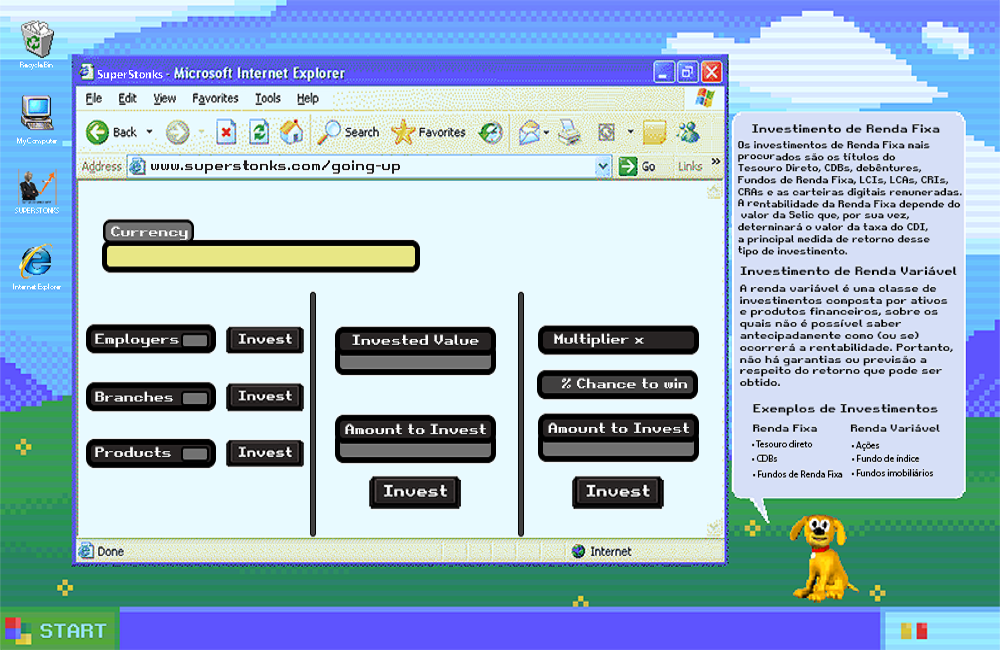
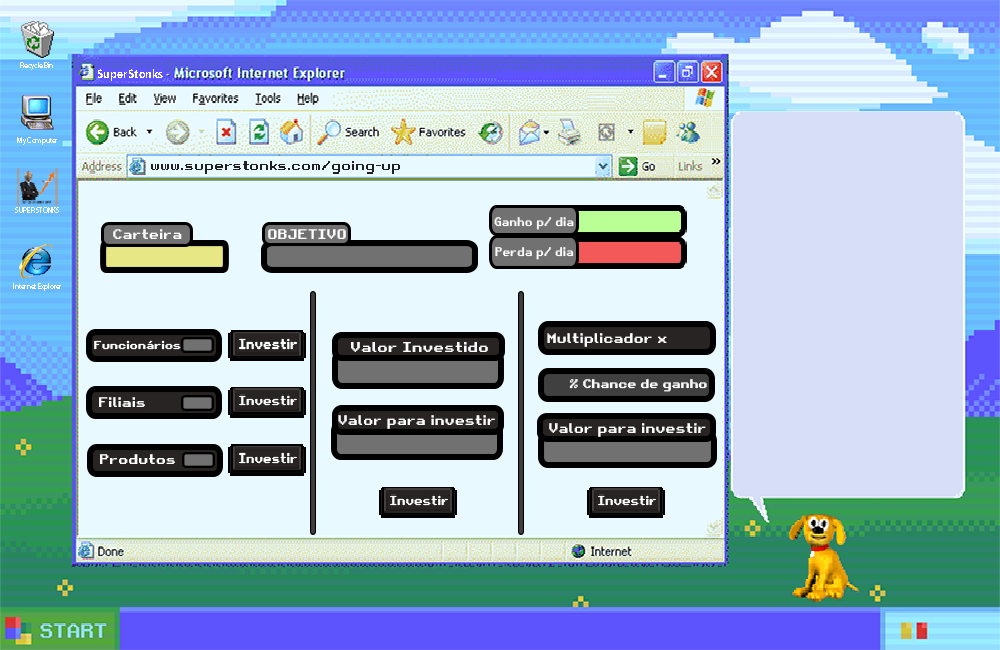
add novo cenario

diff --git a/theShareholder/Main.c b/theShareholder/Main.c
@@ -94,7 +94,7 @@ void LogFrames(int fps, ALLEGRO_FONT* font, ALLEGRO_COLOR* COR)
 };
 void LogWallet(ALLEGRO_FONT* font, Wallet* wallet)
 {
-	al_draw_textf(font, al_map_rgb(0, 0, 0), 250, 250, ALLEGRO_ALIGN_CENTER, "RS:%d -> RS:1.000.000 ", wallet->amount);
+	al_draw_textf(font, al_map_rgb(0, 0, 0), 152, 252, ALLEGRO_ALIGN_CENTER, "RS:%d", wallet->amount);
 	return;
 };
 void LogHours(float hours, float minutes, int x, int y, ALLEGRO_FONT* font, ALLEGRO_COLOR cor) {
@@ -114,9 +114,9 @@ void LogQtyInvestCompany(int x, int y, int value, ALLEGRO_FONT* font)
 
 
 void InitWallet(Wallet* wallet) {
-	wallet->amount = 100;
+	wallet->amount = 10000;
 	wallet->investedProfit = 0;
-	wallet->lossPerDay = 0;
+	wallet->lossPerDay = 5;
 	wallet->profitPerDay = 0;
 	wallet->products = 1;
 	wallet->branches = 1;
@@ -130,12 +130,16 @@ void AddAmount(Wallet* wallet) {
 }
 void InvestmentReturn(Wallet* wallet)
 {
-	wallet->amount += ((wallet->safeInvestedAmount) * 2 / 100) + wallet->valueCompany * 2;
+
 	wallet->safeInvestedAmount += (wallet->safeInvestedAmount) * 2 / 100;
+	wallet->amount += wallet->safeInvestedAmount + log10(wallet->valueCompany) * 0.8;
+
+	wallet->lossPerDay += wallet->valueCompany;
+	wallet->profitPerDay = 0.8 * (wallet->valueCompany) * log10(wallet->valueCompany);
 }
 void RemoveBalance(Wallet* wallet, Container* container)
 {
-	wallet->amount -= wallet->valueCompany * 5;
+	wallet->amount -= wallet->lossPerDay;
 
 	int reponse = 0;
 
@@ -178,6 +182,9 @@ void InitPlayer(Player* player) {
 
 	player->sourceX = 0;
 	player->sourceY = 0;
+	player->fpsPlayer = 0;
+
+
 	player->needRedraw = true;
 
 	player->spritePlayer = al_load_bitmap("src/imgs/player.png");
@@ -475,9 +482,9 @@ void fadeInNight(Background* background, float speed, Container* container, Time
 void statusProgress(Wallet* wallet, int x1, int y1, int x2, int y2)
 {
 	int percentageMoney = wallet->amount * 100 / 1000000;
-	int sizeRectangle = ((x2 - x1) * percentageMoney / 100) + x1 + 30;
+	int sizeRectangle   = ((x2 - x1) * percentageMoney / 100) + x1;
 
-	al_draw_filled_rectangle(x1, y1, sizeRectangle, y2, al_map_rgb(83, 255, 74));
+	al_draw_filled_rectangle(x1, y1, percentageMoney >= 100 ? x2 : sizeRectangle, y2, al_map_rgb(83, 255, 74));
 };
 
 
@@ -510,7 +517,7 @@ void ControlEvent(Container* container, Background* background, Player* player, 
 	ALLEGRO_FONT* fontTimer = al_load_font("src/font/MINECRAFT.TTF", 20, NULL);
 	ALLEGRO_TIMER* timer = al_create_timer(1.0 / FPS);
 
-	int dir = DOWN, frame = 0, investSafeForValue = 5, investDangerForValue = 0, playerrefresh = 0;
+	int dir = DOWN, frame = 0, investSafeForValue = 5, investDangerForValue = 0;
 
 	al_register_event_source(container->eventQueue, al_get_timer_event_source(timer));
 
@@ -520,7 +527,7 @@ void ControlEvent(Container* container, Background* background, Player* player, 
 	{
 		ALLEGRO_EVENT event;
 		ALLEGRO_KEYBOARD_STATE keyState;
-		playerrefresh++;
+		player->fpsPlayer++;
 
 		al_wait_for_event(container->eventQueue, &event);
 
@@ -569,7 +576,7 @@ void ControlEvent(Container* container, Background* background, Player* player, 
 
 			// 1 para 1
 			// seconds = 0,0005786
-			// minutes = 0,034716
+			// minutes = 0,0034716
 			// hours   = 0,2083
 
 			timerGame->seconds += 0.0005786;
@@ -679,24 +686,24 @@ void ControlEvent(Container* container, Background* background, Player* player, 
 				// Add investimento na empresa: Product
 				if (mouse->x >= 224 && mouse->x <= 296 && mouse->y >= 440 && mouse->y <= 460 && wallet->amount > wallet->valueCompany)
 				{
-					wallet->amount -= wallet->valueCompany;
-					wallet->valueCompany *= 3;
+					wallet->amount -= wallet->valueCompany * 2;
+					wallet->valueCompany +=5;
 					wallet->products++;
 				}
 
 				// Add investimento na empresa: employers
 				if (mouse->x >= 224 && mouse->x <= 296 && mouse->y >= 325 && mouse->y <= 345 && wallet->amount > wallet->valueCompany)
 				{
-					wallet->amount -= wallet->valueCompany;
-					wallet->valueCompany *= 2;
+					wallet->amount -= wallet->valueCompany * 2;
+					wallet->valueCompany +=5;
 					wallet->employers++;
 				}
 
 				// Add investimento na empresa: branches
 				if (mouse->x >= 224 && mouse->x <= 296 && mouse->y >= 385 && mouse->y <= 405 && wallet->amount > wallet->valueCompany)
 				{
-					wallet->amount -= wallet->valueCompany;
-					wallet->valueCompany *= 4;
+					wallet->amount -= wallet->valueCompany * 2;
+					wallet->valueCompany += 5;
 					wallet->branches++;
 				}
 
@@ -733,7 +740,7 @@ void ControlEvent(Container* container, Background* background, Player* player, 
 			}
 		}
 
-		if(playerrefresh == 5)
+		if(player->fpsPlayer == 4)
 		{
 			if (player->needRedraw)
 				player->sourceX += al_get_bitmap_width(player->spritePlayer) / 4;
@@ -745,7 +752,7 @@ void ControlEvent(Container* container, Background* background, Player* player, 
 				player->sourceX = 0;
 
 
-			playerrefresh = 0;
+			player->fpsPlayer = 0;
 		}
 
 		player->sourceY = dir * al_get_bitmap_height(player->spritePlayer) / 4;
@@ -774,40 +781,49 @@ void ControlEvent(Container* container, Background* background, Player* player, 
 
 			LogHours(timerGame->hours, timerGame->minutes, 960, 625, fontTimer, al_map_rgb(0, 0, 0));
 
-			// Exibi os valores de dinheiro
-			statusProgress(wallet, 107, 248, 385, 265);
-			LogWallet(fontInvest, wallet);
-
 			// valor investido
-			ShowMoney(415, 358, investSafeForValue, fontInvest);
-
+			ShowMoney(411, 364, investSafeForValue, fontInvest);
+			
 			// valor para investir
-			ShowMoney(415, 445, wallet->safeInvestedAmount, fontInvest);
+			ShowMoney(410, 440, wallet->safeInvestedAmount, fontInvest);
+
+			
+			// Valor do upgrade empresa:
+			al_draw_textf(fontInvest, al_map_rgb(0, 0, 0), 195, 300, ALLEGRO_ALIGN_CENTRE, "Valor de upgrade RS:%i", wallet->valueCompany * 2);
 
 			// Products
-			LogQtyInvestCompany(195, 449, wallet->products, fontInvest);
+			LogQtyInvestCompany(197, 454, wallet->products, fontInvest);
 
 			// Branches
-			LogQtyInvestCompany(195, 393, wallet->branches, fontInvest);
+			LogQtyInvestCompany(197, 397, wallet->branches, fontInvest);
 
 			// Employers
-			LogQtyInvestCompany(195, 336, wallet->employers, fontInvest);
+			LogQtyInvestCompany(197, 340, wallet->employers, fontInvest);
 
-			// Valor do upgrade empresa:
-			al_draw_textf(fontInvest, al_map_rgb(0, 0, 0), 195, 300, ALLEGRO_ALIGN_CENTRE, "Valor de upgrade RS:%i", wallet->valueCompany);
-
-			// Valor do upgrade empresa:
-			al_draw_textf(fontInvest, al_map_rgb(0, 0, 0), 580, 239, ALLEGRO_ALIGN_CENTRE, "Sua empresa ganha RS:%i/dia", wallet->valueCompany * 2);
-			al_draw_textf(fontInvest, al_map_rgb(0, 0, 0), 580, 264, ALLEGRO_ALIGN_CENTRE, "Sua empresa gasta RS:%i/dia", wallet->valueCompany * 5);
-
-			// Valor investido
-			al_draw_textf(fontInvest, al_map_rgb(255, 255, 255), 650, 335, ALLEGRO_ALIGN_CENTRE, "%i", wallet->InsecureInvestedAmount);
 
 			// Valor chance de ganhar
-			al_draw_textf(fontInvest, al_map_rgb(255, 255, 255), 550, 379, ALLEGRO_ALIGN_CENTRE, "%i", wallet->chanceToWin);
+			al_draw_textf(fontInvest, al_map_rgb(255, 255, 255), 555, 378, ALLEGRO_ALIGN_CENTRE, "%i", wallet->chanceToWin);
 
-			// Valor ganho
-			al_draw_textf(fontInvest, al_map_rgb(255, 255, 255), 580, 445, ALLEGRO_ALIGN_CENTRE, "%i", wallet->valueToWin);
+			// Valor investido inseguro
+			al_draw_textf(fontInvest, al_map_rgb(255, 255, 255), 624, 448, ALLEGRO_ALIGN_CENTRE, "%i", wallet->InsecureInvestedAmount);
+
+			// Valor mutiplicador
+			al_draw_textf(fontInvest, al_map_rgb(255, 255, 255), 675, 334, ALLEGRO_ALIGN_CENTRE, "%i", wallet->valueToWin);
+
+
+			// Carteira
+			LogWallet(fontInvest, wallet);
+
+			// Status de progess
+			statusProgress(wallet, 267, 246, 473, 266);
+
+			// TexT 1000000
+			al_draw_textf(fontInvest, al_map_rgb(255, 255, 255), 375, 252, ALLEGRO_ALIGN_CENTRE, "RS:100.000.00");
+
+			// Valor do upgrade empresa:
+			al_draw_textf(fontInvest, al_map_rgb(0, 0, 0), 620, 218, ALLEGRO_ALIGN_CENTRE, "RS:%i", wallet->profitPerDay);
+			al_draw_textf(fontInvest, al_map_rgb(0, 0, 0), 620, 247, ALLEGRO_ALIGN_CENTRE, "RS:%i",  wallet->lossPerDay);
+
 
 			DrawMouse(mouse);
 

diff --git a/theShareholder/game.h b/theShareholder/game.h
@@ -25,8 +25,10 @@ typedef struct {
 	
 	int sourceX;
 	int sourceY;
-	bool needRedraw;
 
+	int fpsPlayer;
+	bool needRedraw;
+	
 	ALLEGRO_BITMAP *spritePlayer;
 
 } Player;
